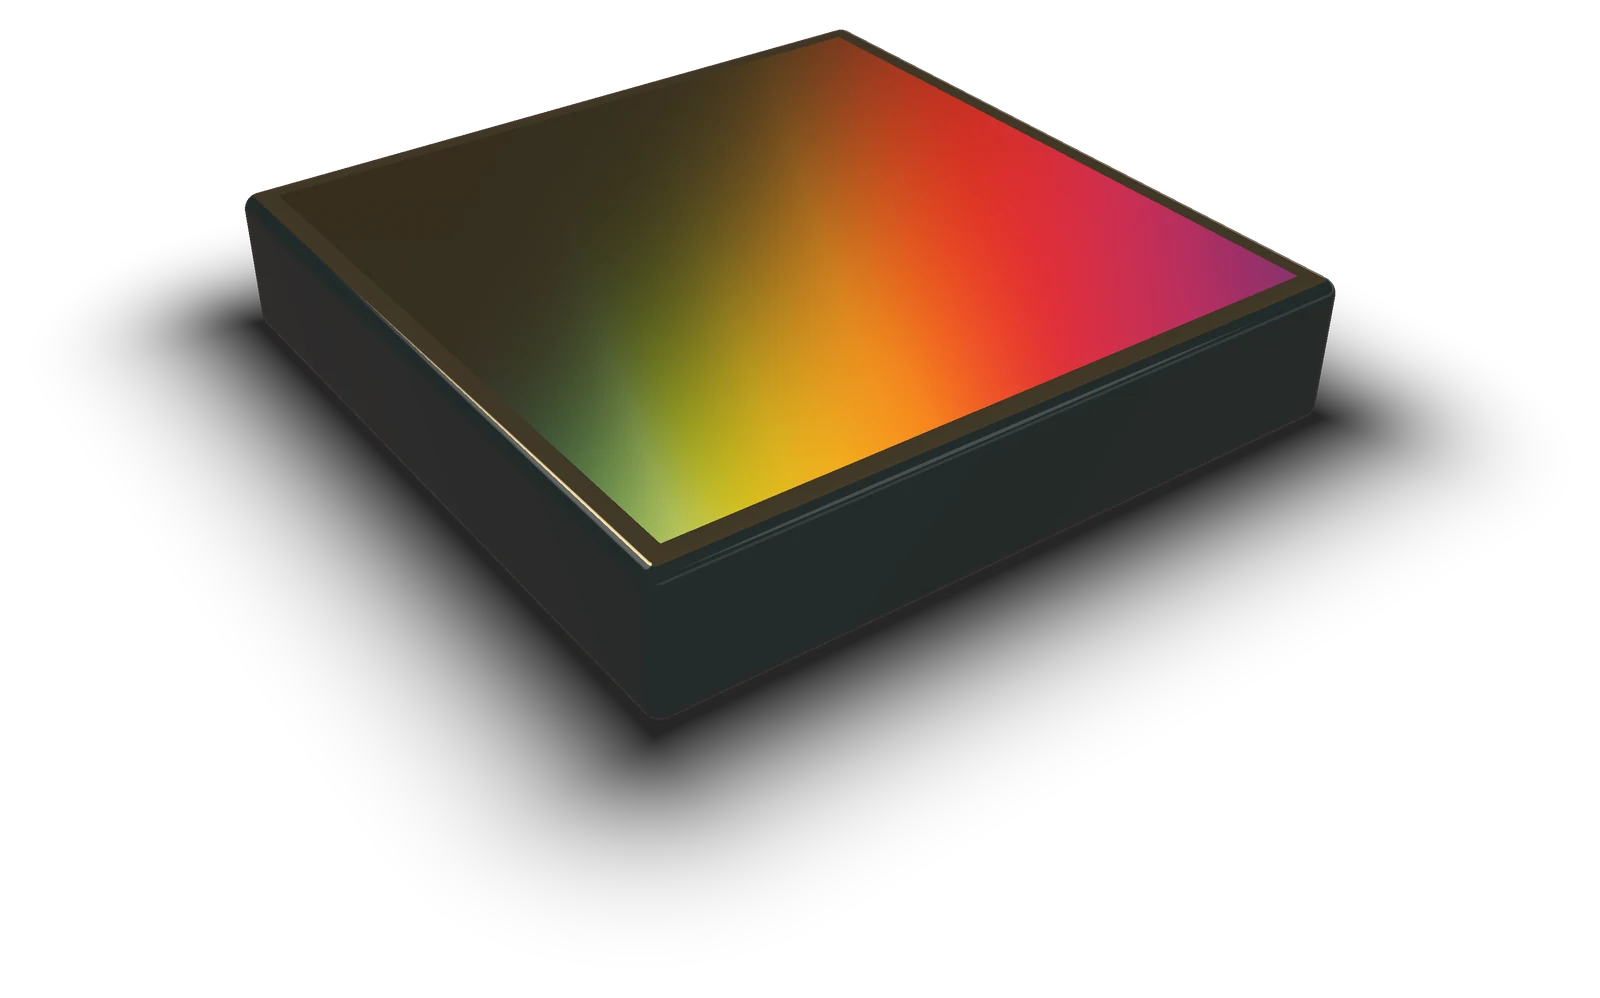
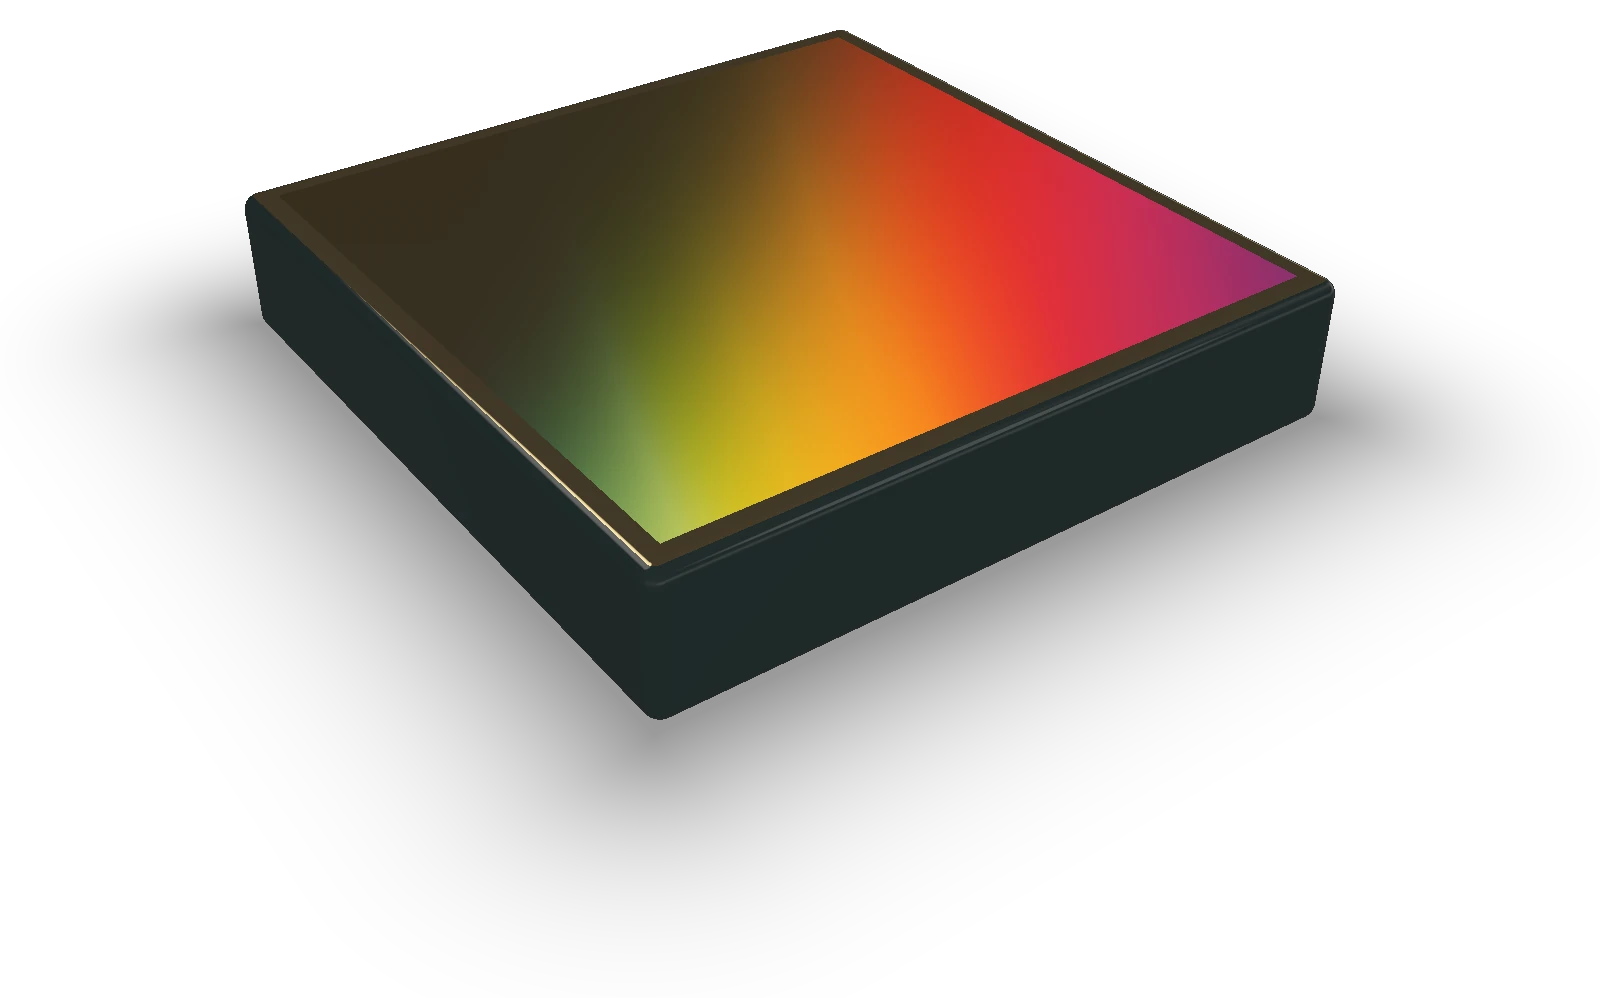
spectrogon TOP-FIX (B): one-colour H1, neutral studio light on the grating, no glow
H1 second line no longer accent-coloured. Colours unchanged (logo red).
render/grating_b.html: the red floor bounce is gone; a low neutral fill and a
dim neutral rim are added to the studio (key softbox upper left as before);
the contact shadow is now faint, wide and soft. Rendered and cropped exactly
as the sent hero (2054x1284, crop 258,235). field.js: the red-graphite
ambient glow and the breathing warm glow are removed, a ~3% neutral ground
falloff added. The diffracted spectrum is the product itself and stays.

Claude-Session: https://claude.ai/code/session_014388NGuukaXUUfs7gJG6bC

Changed region(s): [[0.0938, 0.2796, 0.9062, 0.8387]]

diff --git a/_kit/home/spectrogon/render/grating_b.html b/_kit/home/spectrogon/render/grating_b.html
@@ -1,0 +1,101 @@
+<!doctype html><html><body style="margin:0;background:transparent">
+<canvas id="c"></canvas>
+<script>
+/* Offline render of Spectrogon's real product: a holographic reflection grating, gold coated (their standard for >750 nm),
+   on a square optical crown-glass blank (50 x 50 x 10 mm, one of their standard pulse-compression sizes). Ray-marched rounded
+   box; the grating face is lit by studio softboxes and diffracts them per the grating equation d(sin θm − sin θi) = mλ
+   (1200 gr/mm), so the spectrum sweeps across the gold. TOP-FIX B 2026-11-27: neutral studio only (key softbox upper left, low fill, dim rim), soft wide shadow. Output is premultiplied RGBA (real alpha) with a soft contact shadow. */
+var W=+(new URLSearchParams(location.search).get('w')||3200),H=+(new URLSearchParams(location.search).get('h')||2000);
+var cv=document.getElementById('c');cv.width=W;cv.height=H;
+var gl=cv.getContext('webgl',{premultipliedAlpha:true,preserveDrawingBuffer:true,alpha:true,antialias:false});
+var VS='attribute vec2 p;void main(){gl_Position=vec4(p,0.,1.);}';
+var FS=`precision highp float;
+uniform vec2 R;uniform vec2 J;
+const vec3 HB=vec3(1.0,0.2,1.0);const float RB=0.022;
+mat3 rotY(float a){float c=cos(a),s=sin(a);return mat3(c,0.,-s,0.,1.,0.,s,0.,c);}
+mat3 rotX(float a){float c=cos(a),s=sin(a);return mat3(1.,0.,0.,0.,c,s,0.,-s,c);}
+const float ROT=0.62;
+float sdB(vec3 p){vec3 q=abs(p)-(HB*0.5-RB);return length(max(q,0.))+min(max(q.x,max(q.y,q.z)),0.)-RB;}
+float map(vec3 p){return sdB(rotY(-ROT)*p);}
+vec3 nrm(vec3 p){vec2 e=vec2(.0006,0.);return normalize(vec3(map(p+e.xyy)-map(p-e.xyy),map(p+e.yxy)-map(p-e.yxy),map(p+e.yyx)-map(p-e.yyx)));}
+vec3 spec(float l){ /* wavelength nm -> linear rgb */
+ float r=0.,g=0.,b=0.;
+ if(l<440.){r=-(l-440.)/60.;b=1.;}else if(l<490.){g=(l-440.)/50.;b=1.;}else if(l<510.){g=1.;b=-(l-510.)/20.;}
+ else if(l<580.){r=(l-510.)/70.;g=1.;}else if(l<645.){r=1.;g=-(l-645.)/65.;}else{r=1.;}
+ float f=l<420.?.3+.7*(l-380.)/40.:l>700.?.3+.7*(780.-l)/80.:1.;
+ return pow(max(vec3(r,g,b)*f,0.),vec3(2.2));}
+/* studio: a big softbox up-left-behind, a narrow strip right, faint warm bounce; the rest near-black */
+vec3 env(vec3 d){
+ vec3 c=vec3(.012,.012,.014)+vec3(.02,.019,.02)*max(d.y,0.);
+ vec3 s1=normalize(vec3(-.55,.78,-.3));float a1=dot(d,s1);c+=vec3(1.,.98,.95)*2.2*smoothstep(.93,.975,a1);
+ vec3 s2=normalize(vec3(.85,.42,.25));float a2=dot(d,s2);c+=vec3(.95,.97,1.)*1.1*smoothstep(.985,.995,a2)*smoothstep(.4,.0,abs(d.y-.42));
+ /* TOP-FIX B 2026-11-27: no coloured bounce; a low neutral frontal fill and a dim neutral rim from behind on the far (right) side */
+ c+=vec3(.20)*smoothstep(.4,.95,d.z)*exp(-pow((d.y-.05)/.22,2.));
+ c+=vec3(.55)*exp(-pow((d.x-.80)/.08,2.))*smoothstep(-.6,.2,d.y)*smoothstep(.3,-.4,d.z);
+ c+=vec3(.8,.85,.9)*.55*smoothstep(.18,.02,abs(d.y-.02))*smoothstep(-.2,.7,d.x); /* a low window band from the right, for the glass sides */
+ return c;}
+/* light samples for the diffraction: points on the two softboxes */
+vec3 grating(vec3 V,vec3 N,vec3 T,vec3 Bt){
+ vec3 acc=vec3(0.);
+ for(int i=0;i<36;i++){
+  float fi=float(i);
+  vec3 L;float I;
+  if(i<26){float a=fi*2.39996;float r=sqrt((fi+.5)/26.)*.16;L=normalize(normalize(vec3(-.55,.78,-.3))+vec3(cos(a)*r,sin(a)*r*.5,sin(a)*r));I=2.2/26.;}
+  else{float u=(fi-26.)/9.-.5;L=normalize(vec3(.85,.42+u*.55,.25));I=1.1/10.;}
+  vec3 H=L+V;float ut=dot(H,T);float ub=dot(H,Bt);
+  float lobe=exp(-ub*ub/(2.*.035*.035));
+  if(lobe<.001)continue;
+  for(int m=1;m<=2;m++){float lam=833.*abs(ut)/float(m);
+   if(lam>380.&&lam<780.){acc+=spec(lam)*I*lobe*(m==1?1.:.35);}}
+ }
+ return acc*4.2;}
+float fres(float c,float f0){return f0+(1.-f0)*pow(1.-c,5.);}
+void main(){
+ vec2 fc=gl_FragCoord.xy+J;vec2 uv=(fc-.5*R)/R.y;
+ vec3 ro=vec3(0.,1.25,2.15);vec3 ta=vec3(0.,-.16,0.);
+ vec3 ww=normalize(ta-ro),uu=normalize(cross(ww,vec3(0.,1.,0.))),vv=cross(uu,ww);
+ vec3 rd=normalize(uv.x*uu+uv.y*vv+1.5*ww);
+ float t=0.;bool hit=false;
+ for(int i=0;i<160;i++){float d=map(ro+rd*t);if(d<.00025){hit=true;break;}t+=d;if(t>8.)break;}
+ /* contact shadow on the (invisible) floor plane y=-.1 */
+ float ty=(-.1-ro.y)/rd.y;vec3 fp=ro+rd*ty;vec3 lp=rotY(-ROT)*fp;
+ vec2 q=abs(lp.xz)-HB.xz*.5;float od=length(max(q,0.))+min(max(q.x,q.y),0.);
+ /* TOP-FIX B: a very faint, wide, soft cast shadow (no hard core) */
+ float sh=.26*exp(-max(od,0.)*6.)*smoothstep(.55,-.06,od)+.14*exp(-max(od,0.)*2.2);
+ sh*=smoothstep(.42,.02,od);if(rd.y>=0.&&!false)sh=0.;sh=clamp(sh,0.,.85);
+ if(!hit){gl_FragColor=vec4(0.,0.,0.,sh);return;}
+ vec3 p=ro+rd*t;vec3 n=nrm(p);vec3 V=-rd;vec3 lpn=rotY(-ROT)*n;vec3 lpp=rotY(-ROT)*p;
+ vec3 col;
+ float cs=max(dot(n,V),0.);
+ if(lpn.y>.92){
+  /* grating face: gold, grooves run along the local z axis, so the dispersion axis is local x */
+  vec3 T=rotY(ROT)*vec3(1.,0.,0.),Bt=rotY(ROT)*vec3(0.,0.,1.);
+  vec3 gold=vec3(1.,.71,.29);
+  vec3 r=reflect(rd,n);
+  bool ca=abs(lpp.x)<.46&&abs(lpp.z)<.46; /* clear aperture: the ruled area; a narrow plain margin round it */
+  vec3 F=gold+(1.-gold)*pow(1.-cs,5.);
+  col=F*env(r)*(ca?.18:.9);
+  if(ca){col+=gold*.65*grating(V,n,T,Bt)+vec3(1.)*.18*grating(V,n,T,Bt)*.25;
+   float ln=.5+.5*sin(lpp.x*900.);col*=.97+.03*ln;}
+  col+=gold*.03;
+ }else{
+  /* the glass blank's sides: crown glass, dark with a green-grey body tint and fresnel reflections; ground edges glint */
+  vec3 r=reflect(rd,n);float F=fres(cs,.045);
+  vec3 body=vec3(.010,.020,.019)*(.6+.4*cs);
+  vec3 inner=env(refract(rd,n,.66))*vec3(.35,.55,.5)*.08;
+  col=body+inner+F*env(r)*1.2;
+  float edge=smoothstep(.0,.015,RB*1.0-min(abs(abs(lpp.y)-HB.y*.5+RB),1.))*0.;
+  col+=edge;
+ }
+ /* gentle tone map */
+ col=col/(1.+col*.55);col=pow(col,vec3(1./2.2));
+ gl_FragColor=vec4(col,1.);
+}`;
+function sh(t,s){var o=gl.createShader(t);gl.shaderSource(o,s);gl.compileShader(o);if(!gl.getShaderParameter(o,gl.COMPILE_STATUS))throw Error(gl.getShaderInfoLog(o));return o}
+var pr=gl.createProgram();gl.attachShader(pr,sh(gl.VERTEX_SHADER,VS));gl.attachShader(pr,sh(gl.FRAGMENT_SHADER,FS));gl.linkProgram(pr);gl.useProgram(pr);
+var b=gl.createBuffer();gl.bindBuffer(gl.ARRAY_BUFFER,b);gl.bufferData(gl.ARRAY_BUFFER,new Float32Array([-1,-1,3,-1,-1,3]),gl.STATIC_DRAW);
+var lo=gl.getAttribLocation(pr,'p');gl.enableVertexAttribArray(lo);gl.vertexAttribPointer(lo,2,gl.FLOAT,false,0,0);
+gl.uniform2f(gl.getUniformLocation(pr,'R'),W,H);gl.uniform2f(gl.getUniformLocation(pr,'J'),0,0);
+gl.viewport(0,0,W,H);gl.clearColor(0,0,0,0);gl.clear(gl.COLOR_BUFFER_BIT);gl.drawArrays(gl.TRIANGLES,0,3);
+window.DONE=true;
+</script></body></html>

diff --git a/_kit/src/spectrogon.src.html b/_kit/src/spectrogon.src.html
@@ -983,6 +983,8 @@ body{font-size:16.5px}
 .scene .dx{fill:rgba(63,220,138,.22);stroke:#3fdc8a;stroke-width:1.6;opacity:0}
 .scene text.a{fill:var(--accL)}
 .rail span.done::before,.rail span.on::before{background:var(--accL);border-color:var(--accL)}
+/* TOP-FIX 2026-11-27: the hero headline in one colour and one style (no italic accent second line) */
+.hero-h em{font-style:normal;font-weight:inherit;color:inherit}
 </style>
 </head>
 </head>
@@ -1227,7 +1229,7 @@ function unmask(s){if(!s)return;(s.masks||[]).forEach(function(m){m.style.overfl
 
 /*<R:field>*//* ================= HERO FIELD: a crafted render of Spectrogon's real product (HOME_BRIEF update 2c): a holographic reflection
    grating, gold coated (their standard above 750 nm), on a square crown-glass blank (50 x 50 x 10 mm is one of their standard
-   pulse-compression sizes). Ray-marched offline (render/grating.html): studio softboxes are diffracted by 1200 grooves/mm per the
+   pulse-compression sizes). Ray-marched offline (render/grating_b.html, TOP-FIX B neutral studio light): studio softboxes are diffracted by 1200 grooves/mm per the
    grating equation, so the spectrum sweeps across the gold. Output is real alpha with a soft contact shadow, so it sits on the page
    ink with no box (DP/DJ). Here it breathes in a very slow drift, with no pointer response. On phones it sits in the top band. ================= */
 var field=(function(){
@@ -1256,17 +1258,13 @@ var field=(function(){
       /* a very slow breath: grow ~3% and drift up a touch over ~40s, eased back and forth */
       var k=.5-.5*Math.cos(t*Math.PI*2/40),sc=(1+.03*k)*(1+.035*(1-e));
       var dw=G.iw*sc,dh=G.ih*sc,x=G.kx-dw*.5,y=G.ky-dh*.5-k*G.ih*.012-SP.v*G.ih*.06;
-      /* a low red-graphite glow, painted across the WHOLE canvas (never inside the image rect alone), so no edge of the baked
-         render can read as a pasted box (DJ) */
-      var ggx=G.mob?w*.5:G.side+G.cw*.73,ggy=G.mob?G.ky:h*.46,ggr=G.mob?Math.max(40,h*.34-G.ky-24):Math.max(w,h)*.78;
-      var ag=c.createRadialGradient(ggx,ggy,0,ggx,ggy,ggr);
-      ag.addColorStop(0,"rgba(58,40,36,"+(.4*e).toFixed(3)+")");ag.addColorStop(.55,"rgba(30,28,30,"+(.28*e).toFixed(3)+")");ag.addColorStop(1,"rgba(18,19,22,0)");
-      c.fillStyle=ag;c.fillRect(0,0,w,h);
-      c.globalAlpha=e;c.drawImage(img,x,y,dw,dh);
-      /* the light in the waveguides breathes very gently */
-      var pu=.5+.5*Math.sin(t*Math.PI*2/9),px=x+dw*.52,py=y+dh*.5,pr=dw*.34;
-      var rg=c.createRadialGradient(px,py,0,px,py,pr);rg.addColorStop(0,"rgba(255,190,110,"+(.02+.025*pu).toFixed(3)+")");rg.addColorStop(1,"rgba(255,190,110,0)");
-      c.fillStyle=rg;c.fillRect(px-pr,py-pr,pr*2,pr*2);c.globalAlpha=1;
+      /* TOP-FIX B 2026-11-27: no glow. A very faint neutral falloff on the ground, up and toward the key (upper left)
+         side of the grating, at most ~3% brighter than the ink (no colour, no halo hugging the object) */
+      var fx=G.mob?w*.5:x+dw*.40,fy=G.mob?G.bh*.42:y+dh*.34,fr=Math.max(w,h)*.62;
+      var fo=c.createRadialGradient(fx,fy,0,fx,fy,fr);fo.addColorStop(0,"rgba(255,255,255,"+(.03*e).toFixed(4)+")");fo.addColorStop(.55,"rgba(255,255,255,"+(.011*e).toFixed(4)+")");fo.addColorStop(1,"rgba(255,255,255,0)");
+      c.fillStyle=fo;c.fillRect(0,0,w,h);
+      /* the render (render/grating_b.html: neutral studio key upper left, low fill, dim rim, a faint wide soft shadow) */
+      c.globalAlpha=e;c.drawImage(img,x,y,dw,dh);c.globalAlpha=1;
       if(!G.mob){
         /* the headline side stays quiet (DI): an ink wash from the left, a soft top and base */
         var lv=c.createLinearGradient(0,0,G.side+G.cw*.66,0);[[0,.95],[.25,.92],[.42,.82],[.56,.62],[.68,.4],[.79,.2],[.89,.07],[1,0]].forEach(function(q){lv.addColorStop(q[0],"rgba(13,14,16,"+q[1]+")")});c.fillStyle=lv;c.fillRect(0,0,w,h);

diff --git a/spectrogon/index.html b/spectrogon/index.html
@@ -990,6 +990,8 @@ body{font-size:16.5px}
 .scene .dx{fill:rgba(63,220,138,.22);stroke:#3fdc8a;stroke-width:1.6;opacity:0}
 .scene text.a{fill:var(--accL)}
 .rail span.done::before,.rail span.on::before{background:var(--accL);border-color:var(--accL)}
+/* TOP-FIX 2026-11-27: the hero headline in one colour and one style (no italic accent second line) */
+.hero-h em{font-style:normal;font-weight:inherit;color:inherit}
 </style>
 </head>
 </head>
@@ -1794,7 +1796,7 @@ function unmask(s){if(!s)return;(s.masks||[]).forEach(function(m){m.style.overfl
 
 /*<R:field>*//* ================= HERO FIELD: a crafted render of Spectrogon's real product (HOME_BRIEF update 2c): a holographic reflection
    grating, gold coated (their standard above 750 nm), on a square crown-glass blank (50 x 50 x 10 mm is one of their standard
-   pulse-compression sizes). Ray-marched offline (render/grating.html): studio softboxes are diffracted by 1200 grooves/mm per the
+   pulse-compression sizes). Ray-marched offline (render/grating_b.html, TOP-FIX B neutral studio light): studio softboxes are diffracted by 1200 grooves/mm per the
    grating equation, so the spectrum sweeps across the gold. Output is real alpha with a soft contact shadow, so it sits on the page
    ink with no box (DP/DJ). Here it breathes in a very slow drift, with no pointer response. On phones it sits in the top band. ================= */
 var field=(function(){
@@ -1823,17 +1825,13 @@ var field=(function(){
       /* a very slow breath: grow ~3% and drift up a touch over ~40s, eased back and forth */
       var k=.5-.5*Math.cos(t*Math.PI*2/40),sc=(1+.03*k)*(1+.035*(1-e));
       var dw=G.iw*sc,dh=G.ih*sc,x=G.kx-dw*.5,y=G.ky-dh*.5-k*G.ih*.012-SP.v*G.ih*.06;
-      /* a low red-graphite glow, painted across the WHOLE canvas (never inside the image rect alone), so no edge of the baked
-         render can read as a pasted box (DJ) */
-      var ggx=G.mob?w*.5:G.side+G.cw*.73,ggy=G.mob?G.ky:h*.46,ggr=G.mob?Math.max(40,h*.34-G.ky-24):Math.max(w,h)*.78;
-      var ag=c.createRadialGradient(ggx,ggy,0,ggx,ggy,ggr);
-      ag.addColorStop(0,"rgba(58,40,36,"+(.4*e).toFixed(3)+")");ag.addColorStop(.55,"rgba(30,28,30,"+(.28*e).toFixed(3)+")");ag.addColorStop(1,"rgba(18,19,22,0)");
-      c.fillStyle=ag;c.fillRect(0,0,w,h);
-      c.globalAlpha=e;c.drawImage(img,x,y,dw,dh);
-      /* the light in the waveguides breathes very gently */
-      var pu=.5+.5*Math.sin(t*Math.PI*2/9),px=x+dw*.52,py=y+dh*.5,pr=dw*.34;
-      var rg=c.createRadialGradient(px,py,0,px,py,pr);rg.addColorStop(0,"rgba(255,190,110,"+(.02+.025*pu).toFixed(3)+")");rg.addColorStop(1,"rgba(255,190,110,0)");
-      c.fillStyle=rg;c.fillRect(px-pr,py-pr,pr*2,pr*2);c.globalAlpha=1;
+      /* TOP-FIX B 2026-11-27: no glow. A very faint neutral falloff on the ground, up and toward the key (upper left)
+         side of the grating, at most ~3% brighter than the ink (no colour, no halo hugging the object) */
+      var fx=G.mob?w*.5:x+dw*.40,fy=G.mob?G.bh*.42:y+dh*.34,fr=Math.max(w,h)*.62;
+      var fo=c.createRadialGradient(fx,fy,0,fx,fy,fr);fo.addColorStop(0,"rgba(255,255,255,"+(.03*e).toFixed(4)+")");fo.addColorStop(.55,"rgba(255,255,255,"+(.011*e).toFixed(4)+")");fo.addColorStop(1,"rgba(255,255,255,0)");
+      c.fillStyle=fo;c.fillRect(0,0,w,h);
+      /* the render (render/grating_b.html: neutral studio key upper left, low fill, dim rim, a faint wide soft shadow) */
+      c.globalAlpha=e;c.drawImage(img,x,y,dw,dh);c.globalAlpha=1;
       if(!G.mob){
         /* the headline side stays quiet (DI): an ink wash from the left, a soft top and base */
         var lv=c.createLinearGradient(0,0,G.side+G.cw*.66,0);[[0,.95],[.25,.92],[.42,.82],[.56,.62],[.68,.4],[.79,.2],[.89,.07],[1,0]].forEach(function(q){lv.addColorStop(q[0],"rgba(13,14,16,"+q[1]+")")});c.fillStyle=lv;c.fillRect(0,0,w,h);

diff --git a/_kit/home/spectrogon/field.js b/_kit/home/spectrogon/field.js
@@ -1,6 +1,6 @@
 /* ================= HERO FIELD: a crafted render of Spectrogon's real product (HOME_BRIEF update 2c): a holographic reflection
    grating, gold coated (their standard above 750 nm), on a square crown-glass blank (50 x 50 x 10 mm is one of their standard
-   pulse-compression sizes). Ray-marched offline (render/grating.html): studio softboxes are diffracted by 1200 grooves/mm per the
+   pulse-compression sizes). Ray-marched offline (render/grating_b.html, TOP-FIX B neutral studio light): studio softboxes are diffracted by 1200 grooves/mm per the
    grating equation, so the spectrum sweeps across the gold. Output is real alpha with a soft contact shadow, so it sits on the page
    ink with no box (DP/DJ). Here it breathes in a very slow drift, with no pointer response. On phones it sits in the top band. ================= */
 var field=(function(){
@@ -29,17 +29,13 @@ var field=(function(){
       /* a very slow breath: grow ~3% and drift up a touch over ~40s, eased back and forth */
       var k=.5-.5*Math.cos(t*Math.PI*2/40),sc=(1+.03*k)*(1+.035*(1-e));
       var dw=G.iw*sc,dh=G.ih*sc,x=G.kx-dw*.5,y=G.ky-dh*.5-k*G.ih*.012-SP.v*G.ih*.06;
-      /* a low red-graphite glow, painted across the WHOLE canvas (never inside the image rect alone), so no edge of the baked
-         render can read as a pasted box (DJ) */
-      var ggx=G.mob?w*.5:G.side+G.cw*.73,ggy=G.mob?G.ky:h*.46,ggr=G.mob?Math.max(40,h*.34-G.ky-24):Math.max(w,h)*.78;
-      var ag=c.createRadialGradient(ggx,ggy,0,ggx,ggy,ggr);
-      ag.addColorStop(0,"rgba(58,40,36,"+(.4*e).toFixed(3)+")");ag.addColorStop(.55,"rgba(30,28,30,"+(.28*e).toFixed(3)+")");ag.addColorStop(1,"rgba(18,19,22,0)");
-      c.fillStyle=ag;c.fillRect(0,0,w,h);
-      c.globalAlpha=e;c.drawImage(img,x,y,dw,dh);
-      /* the light in the waveguides breathes very gently */
-      var pu=.5+.5*Math.sin(t*Math.PI*2/9),px=x+dw*.52,py=y+dh*.5,pr=dw*.34;
-      var rg=c.createRadialGradient(px,py,0,px,py,pr);rg.addColorStop(0,"rgba(255,190,110,"+(.02+.025*pu).toFixed(3)+")");rg.addColorStop(1,"rgba(255,190,110,0)");
-      c.fillStyle=rg;c.fillRect(px-pr,py-pr,pr*2,pr*2);c.globalAlpha=1;
+      /* TOP-FIX B 2026-11-27: no glow. A very faint neutral falloff on the ground, up and toward the key (upper left)
+         side of the grating, at most ~3% brighter than the ink (no colour, no halo hugging the object) */
+      var fx=G.mob?w*.5:x+dw*.40,fy=G.mob?G.bh*.42:y+dh*.34,fr=Math.max(w,h)*.62;
+      var fo=c.createRadialGradient(fx,fy,0,fx,fy,fr);fo.addColorStop(0,"rgba(255,255,255,"+(.03*e).toFixed(4)+")");fo.addColorStop(.55,"rgba(255,255,255,"+(.011*e).toFixed(4)+")");fo.addColorStop(1,"rgba(255,255,255,0)");
+      c.fillStyle=fo;c.fillRect(0,0,w,h);
+      /* the render (render/grating_b.html: neutral studio key upper left, low fill, dim rim, a faint wide soft shadow) */
+      c.globalAlpha=e;c.drawImage(img,x,y,dw,dh);c.globalAlpha=1;
       if(!G.mob){
         /* the headline side stays quiet (DI): an ink wash from the left, a soft top and base */
         var lv=c.createLinearGradient(0,0,G.side+G.cw*.66,0);[[0,.95],[.25,.92],[.42,.82],[.56,.62],[.68,.4],[.79,.2],[.89,.07],[1,0]].forEach(function(q){lv.addColorStop(q[0],"rgba(13,14,16,"+q[1]+")")});c.fillStyle=lv;c.fillRect(0,0,w,h);

diff --git a/_kit/home/spectrogon/render/shoot_b.js b/_kit/home/spectrogon/render/shoot_b.js
@@ -1,0 +1,6 @@
+const {chromium}=require('playwright');const fs=require('fs');
+(async()=>{const b=await chromium.launch({args:['--use-gl=angle','--use-angle=swiftshader','--enable-unsafe-swiftshader']});const p=await b.newPage();
+const w=process.argv[2]||1600,h=process.argv[3]||1000;
+p.on('console',m=>console.log(m.text()));p.on('pageerror',e=>console.log('ERR',e.message));
+await p.goto('file://'+__dirname+'/grating_b.html?w='+w+'&h='+h);await p.waitForFunction('window.DONE',null,{timeout:600000});
+const d=await p.evaluate(()=>document.getElementById('c').toDataURL('image/png'));fs.writeFileSync(__dirname+'/raw_b.png',Buffer.from(d.split(',')[1],'base64'));await b.close();})();

diff --git a/_kit/home/spectrogon/extra.css b/_kit/home/spectrogon/extra.css
@@ -360,3 +360,5 @@ body{font-size:16.5px}
 .scene .dx{fill:rgba(63,220,138,.22);stroke:#3fdc8a;stroke-width:1.6;opacity:0}
 .scene text.a{fill:var(--accL)}
 .rail span.done::before,.rail span.on::before{background:var(--accL);border-color:var(--accL)}
+/* TOP-FIX 2026-11-27: the hero headline in one colour and one style (no italic accent second line) */
+.hero-h em{font-style:normal;font-weight:inherit;color:inherit}
